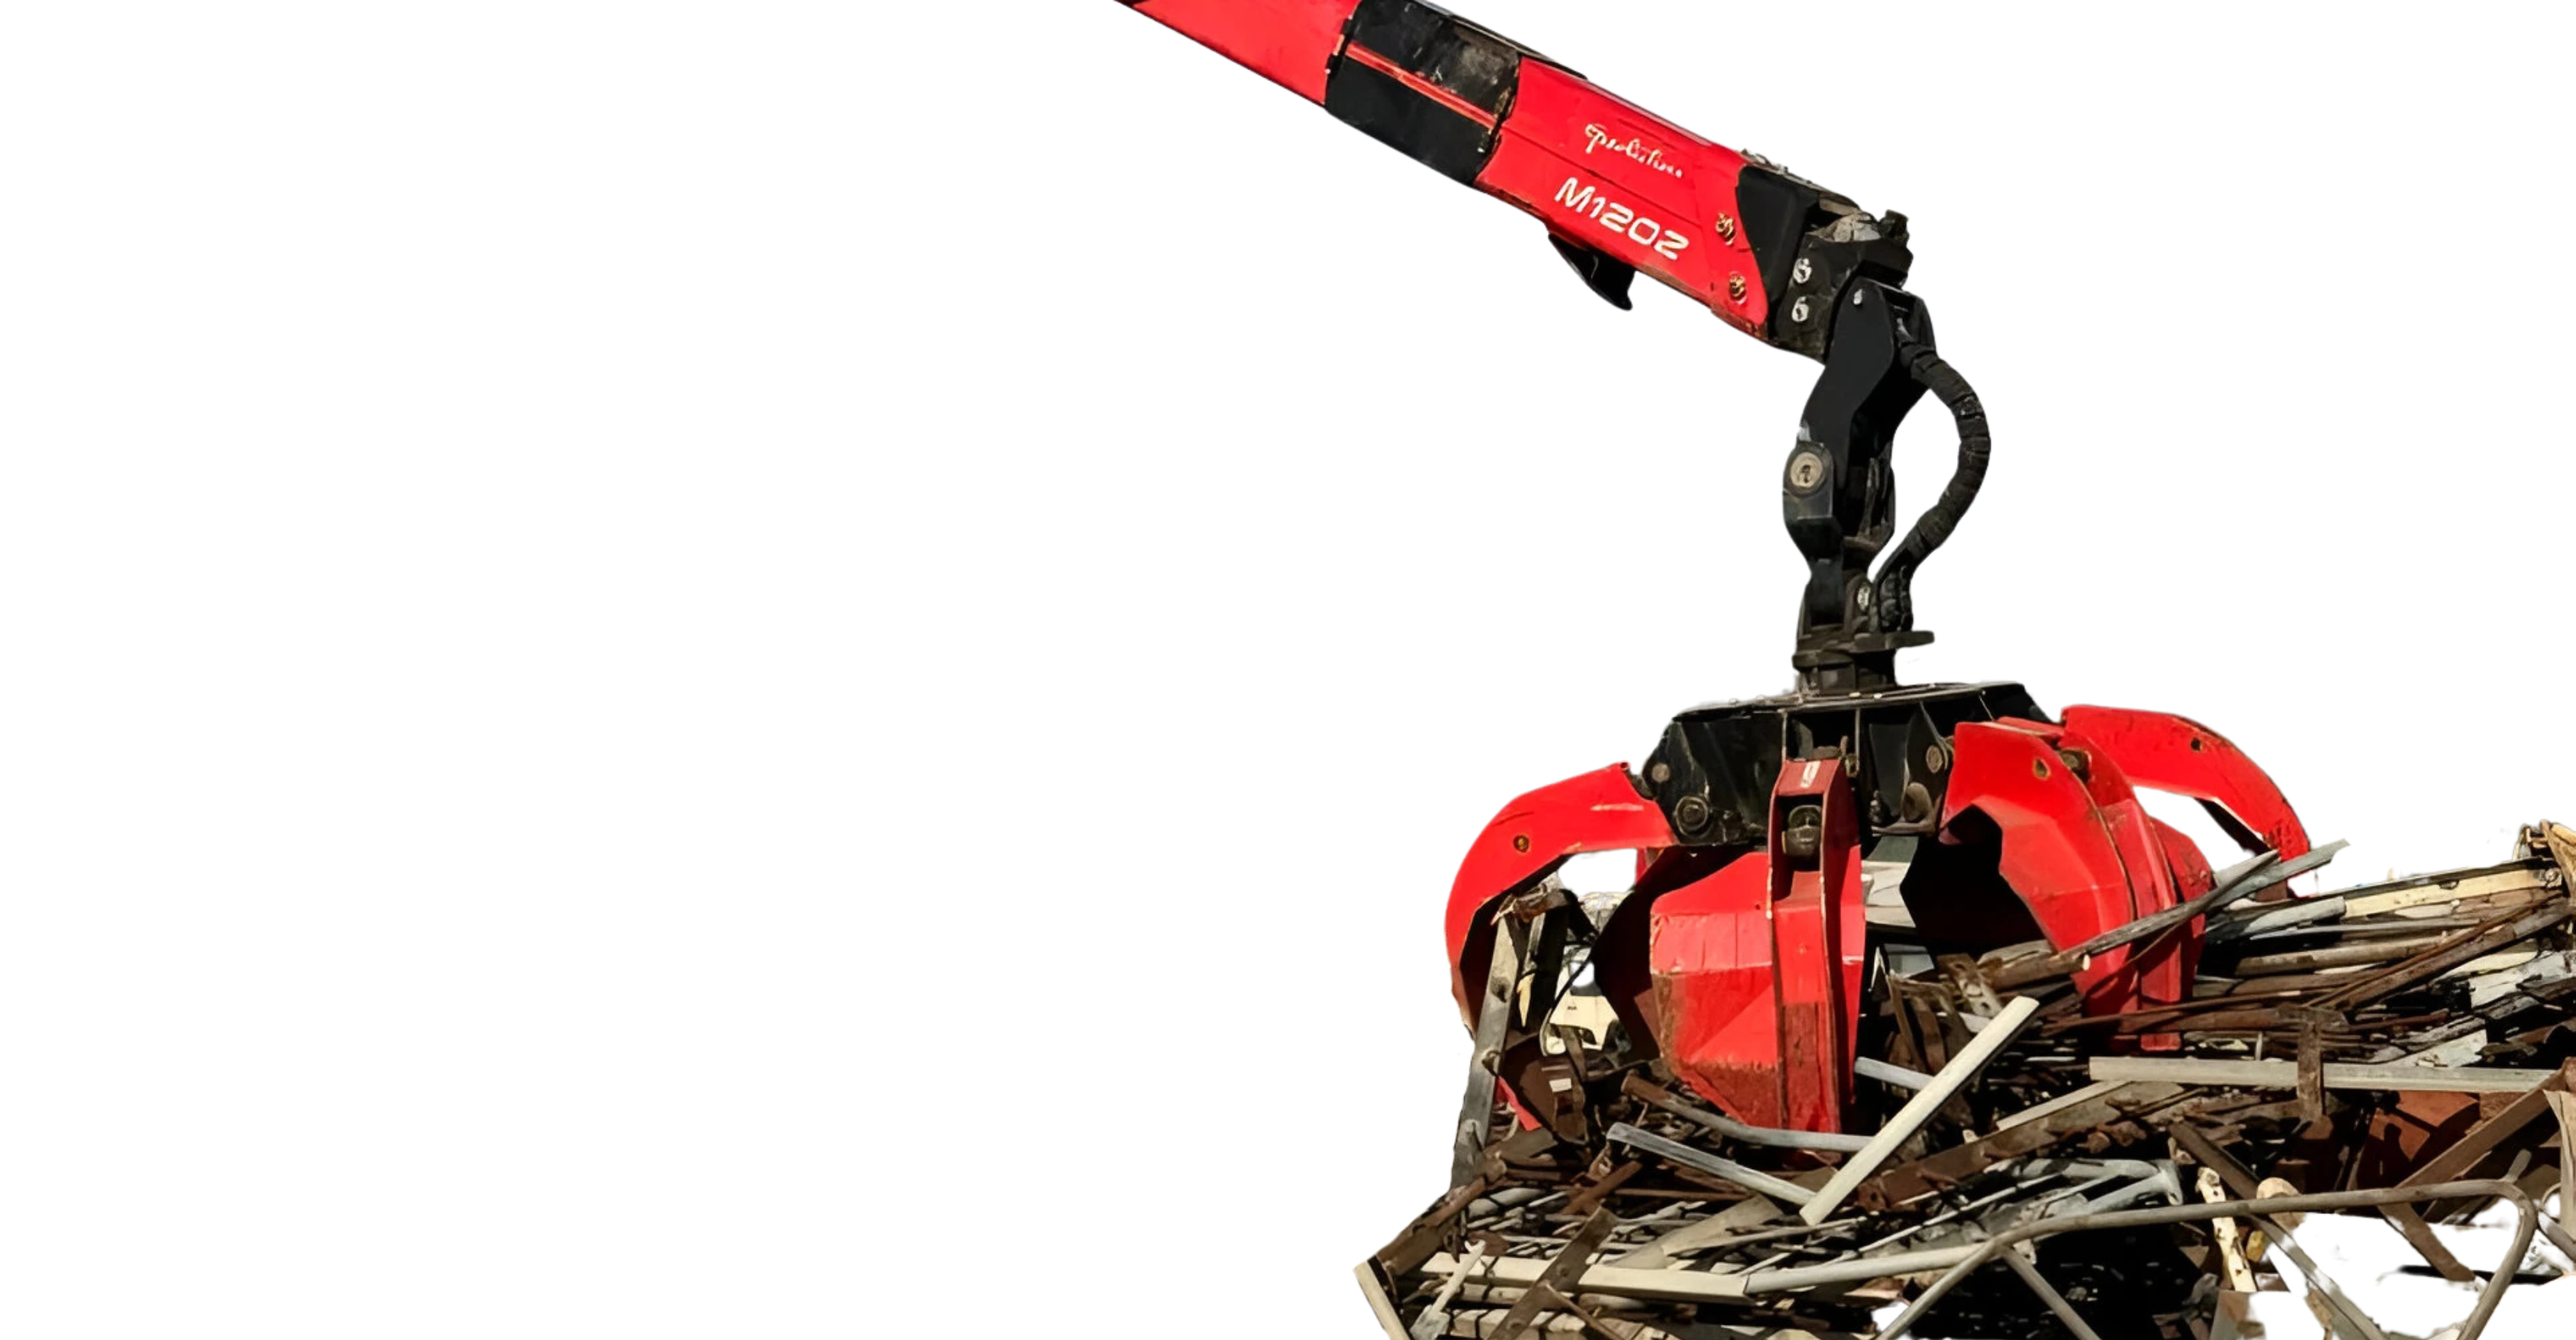
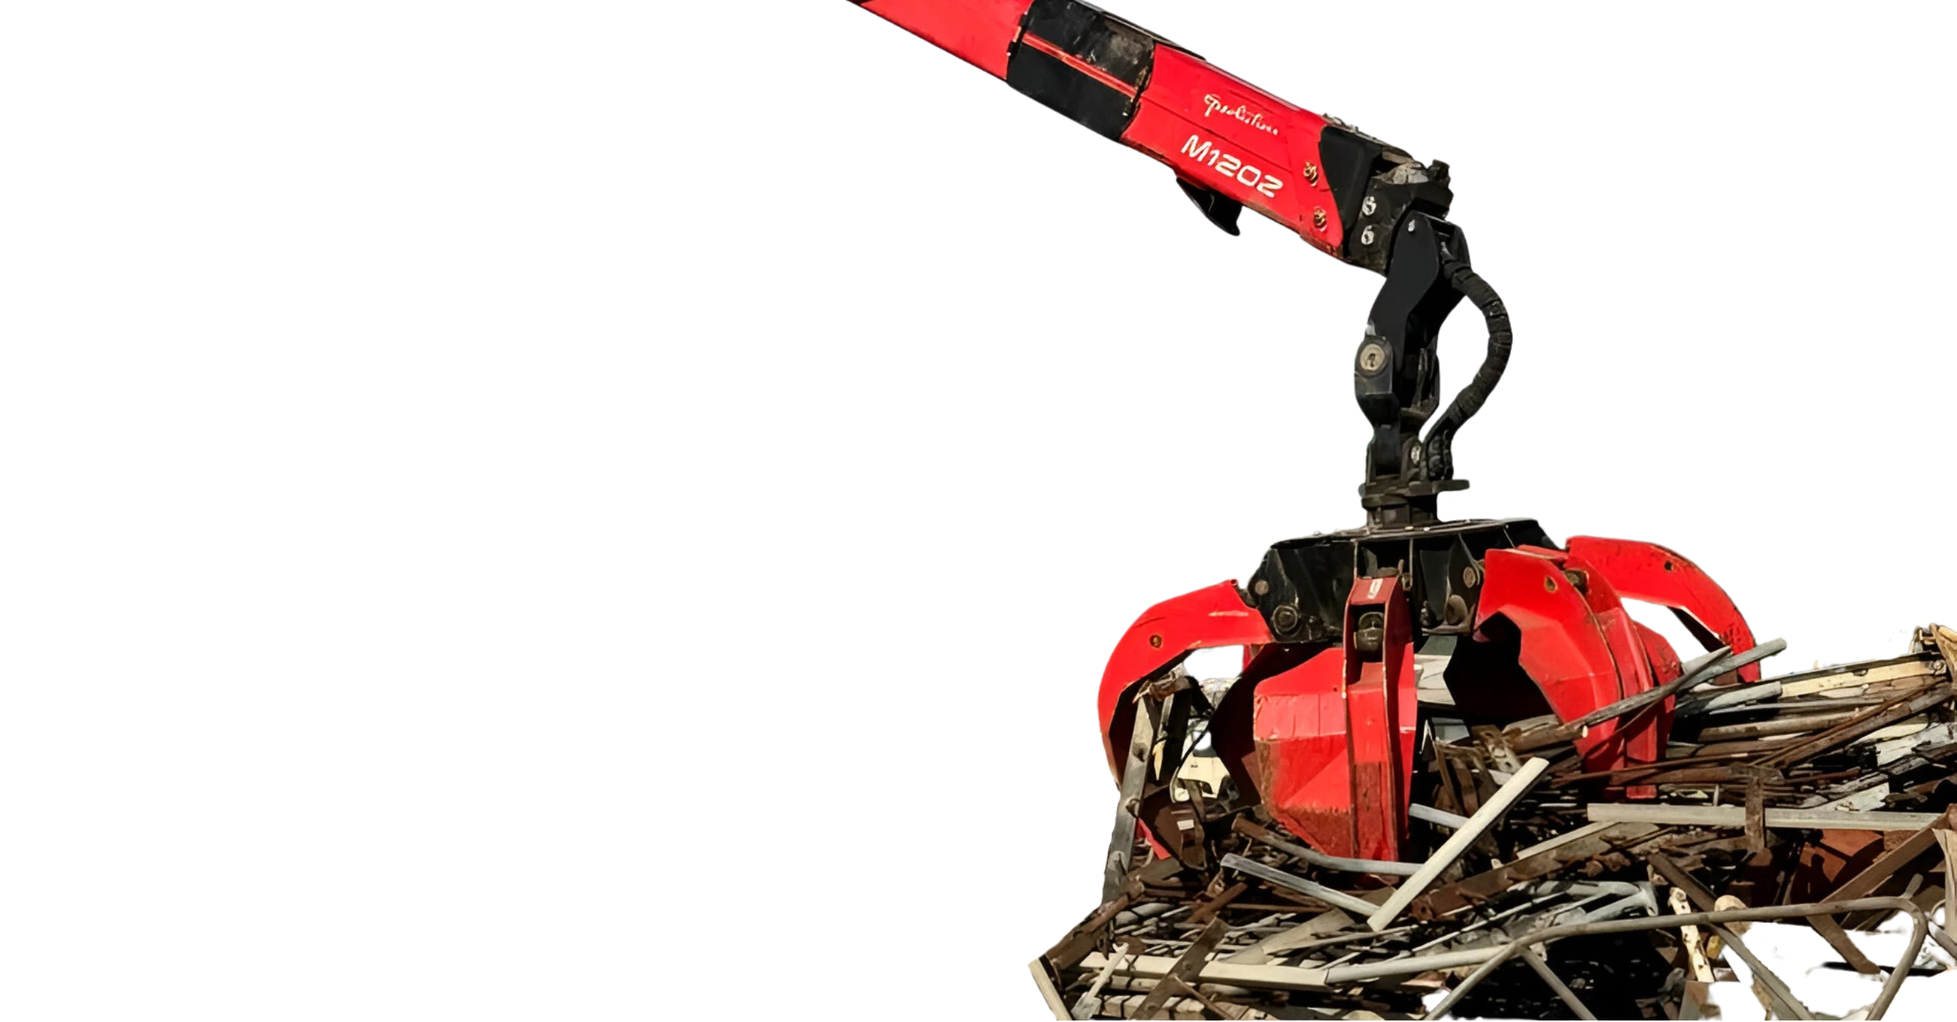
feat: implement parallax effect and update hero images
- Add parallax scrolling effect with two 3D images
- Background image moves at 30% scroll speed for depth
- Foreground image moves at 70% scroll speed for foreground effect
- Add cache-busting parameters (?v=3) to force image refresh
- Update herosection3d.png with new version
- Add herosectionbackground3d.png for background parallax
- Implement scroll event listener for smooth parallax animation
- Create 3D depth illusion with different scroll speeds

diff --git a/src/components/sections/HeroSection/HeroSection.tsx b/src/components/sections/HeroSection/HeroSection.tsx
@@ -1,5 +1,5 @@
 'use client';
-import React from 'react';
+import React, { useEffect, useState } from 'react';
 import Image from 'next/image';
 
 import { FaWhatsapp } from 'react-icons/fa';
@@ -11,32 +11,48 @@ import styles from './HeroSection.module.css';
 
 export const HeroSection: React.FC = () => {
   const { trackClick } = useInteractionTracking({ pageName: 'Homepage' });
+  const [scrollY, setScrollY] = useState(0);
+
+  useEffect(() => {
+    const handleScroll = () => {
+      setScrollY(window.scrollY);
+    };
+
+    window.addEventListener('scroll', handleScroll);
+    return () => window.removeEventListener('scroll', handleScroll);
+  }, []);
 
   return (
     <section className={styles.heroSection}>
       <div className={styles.heroBackground}>
-        {/* Single Hero Image for both mobile and desktop */}
+        {/* Background Hero Image with Parallax Effect */}
         <Image
-          src="/images/herosection.webp"
+          src="/images/herosectionbackground3d.png?v=3"
           alt="Planta industrial de KONSTANDER para compra de chatarra y metales en Lampa, con equipos de pesaje y clasificación de materiales reciclados"
           fill
           priority
           quality={60}
           sizes="100vw"
           className={styles.heroImage}
+          style={{
+            transform: `translateY(${scrollY * 0.3}px)`,
+          }}
           placeholder="blur"
[1 lines of base64/hex data omitted]
         />
         
-        {/* 3D Hero Image Overlay for Testing */}
+        {/* Foreground 3D Hero Image with Parallax Effect */}
         <Image
-          src="/images/herosection3d.png"
+          src="/images/herosection3d.png?v=3"
           alt="3D Hero Overlay for Testing"
           fill
           priority
           quality={60}
           sizes="100vw"
           className={styles.heroImage3d}
+          style={{
+            transform: `translateY(${scrollY * 0.7}px)`,
+          }}
           placeholder="blur"
[1 lines of base64/hex data omitted]
         />
